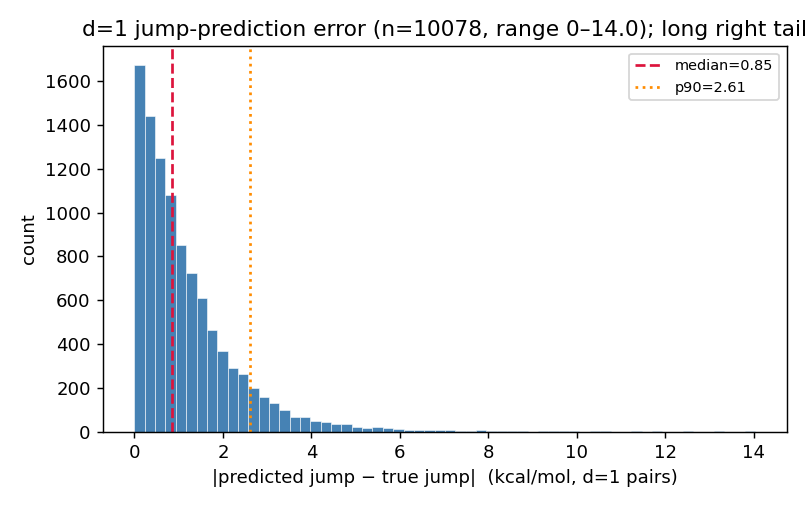
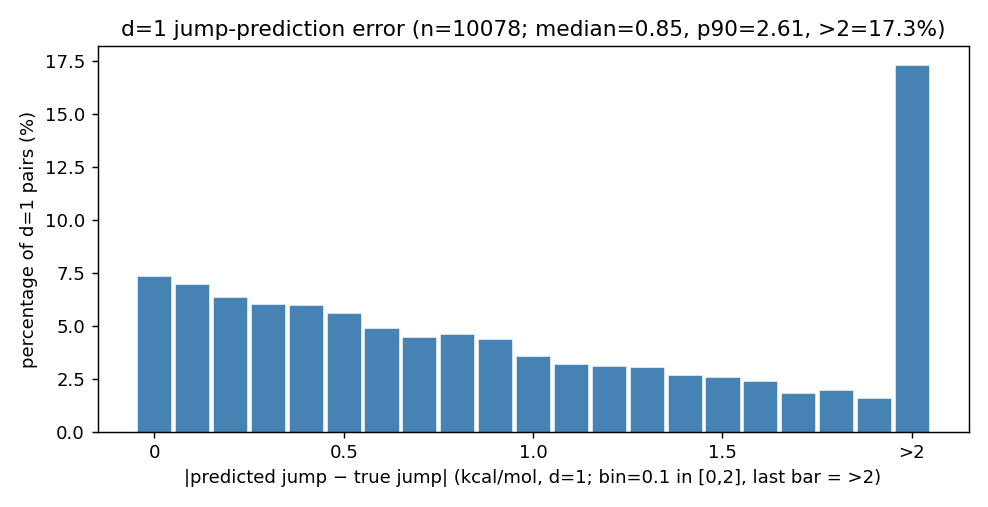
mutation-cliff §4.2: d=1 jump-error histogram -> bins [0,2) step 0.1 + >2, y-axis percentage (was 60-bin count)

Changed region(s): [[0.0, 0.0296, 1.0, 0.9763], [0.0, 0.2367, 0.031, 0.2663]]

diff --git a/reproduce/mutation_cliff_viz.py b/reproduce/mutation_cliff_viz.py
@@ -229,11 +229,15 @@ print(ext[["PDB","site","d","ddG_A","ddG_B","true_jump","pred_jump","diff_percen
 d1e=P[P.d==1].copy(); d1e["jerr"]=(d1e.pred_jump-d1e.true_jump).abs()
 print(f"\n=== d=1 |pred_jump−true_jump| 分布: n={len(d1e)} range[{d1e.jerr.min():.2f},{d1e.jerr.max():.2f}] "
       f"mean={d1e.jerr.mean():.2f} median={d1e.jerr.median():.2f} p90={d1e.jerr.quantile(.9):.2f} p99={d1e.jerr.quantile(.99):.2f} ===")
-fig,ax=plt.subplots(figsize=(6.2,3.9))
-ax.hist(d1e.jerr.values,bins=60,color="steelblue",edgecolor="white",linewidth=0.3)
-ax.axvline(d1e.jerr.median(),ls="--",c="crimson",lw=1.5,label=f"median={d1e.jerr.median():.2f}")
-ax.axvline(d1e.jerr.quantile(.9),ls=":",c="darkorange",lw=1.5,label=f"p90={d1e.jerr.quantile(.9):.2f}")
-ax.set_xlabel("|predicted jump − true jump|  (kcal/mol, d=1 pairs)"); ax.set_ylabel("count")
-ax.set_title(f"d=1 jump-prediction error (n={len(d1e)}, range 0–{d1e.jerr.max():.1f}); long right tail")
-ax.legend(fontsize=8)
+# 分桶:[0,2) step=0.1(20 桶)+ 一个 >2 桶;y 轴为占比(%)
+hedges=[round(0.1*i,1) for i in range(21)]+[1e9]
+hcnt=np.histogram(d1e.jerr.values,bins=hedges)[0]
+hpct=100*hcnt/len(d1e)
+hxs=np.arange(len(hpct))
+fig,ax=plt.subplots(figsize=(7.6,3.9))
+ax.bar(hxs,hpct,width=0.9,color="steelblue",edgecolor="white",linewidth=0.3)
+ax.set_xticks([0,5,10,15,20]); ax.set_xticklabels(["0","0.5","1.0","1.5",">2"])
+ax.set_xlabel("|predicted jump − true jump| (kcal/mol, d=1; bin=0.1 in [0,2], last bar = >2)")
+ax.set_ylabel("percentage of d=1 pairs (%)")
+ax.set_title(f"d=1 jump-prediction error (n={len(d1e)}; median={d1e.jerr.median():.2f}, p90={d1e.jerr.quantile(.9):.2f}, >2={100*(d1e.jerr>2).mean():.1f}%)")
 fig.tight_layout(); fig.savefig(os.path.join(OUT,"d1_jumperr_hist.png")); plt.close(fig)

diff --git a/reproduce/RESEARCH_MOTIVATION_mutation_cliff.md b/reproduce/RESEARCH_MOTIVATION_mutation_cliff.md
@@ -139,8 +139,9 @@
 **d=1 全体的预测跳变误差分布**: 在所有 d=1 对(n=10078)上,`|预测跳变 − 真值跳变|` 的范围是 **[0.00, 14.04] kcal/mol**,
 mean 1.19 / median 0.85 / p90 2.61 / p99 5.83;**32.7% 的对 <0.5(预测准),但 17.3% >2、3.3% >4(严重失配)**。
 分布呈**长右尾**——多数 d=1 对预测尚可,但拖着一条粗重的"严重失配"尾巴(即上面"不正常组"那类 cliff)。
+(下图: 误差按 [0,2) 间隔 0.1 分桶、>2 聚成最后一根柱;纵轴为占全部 d=1 对的百分比,故 >2 那根柱即 17.3%。)
 
-<img src="mutation_analysis/d1_jumperr_hist.png" width="480">
+<img src="mutation_analysis/d1_jumperr_hist.png" width="520">
 
 ## 5. 产物
 - 数据: `skempi_per_sample_pred.csv`、`skempi_mutation_cliff_pairs.csv`、`skempi_same_site_groups.csv`、
